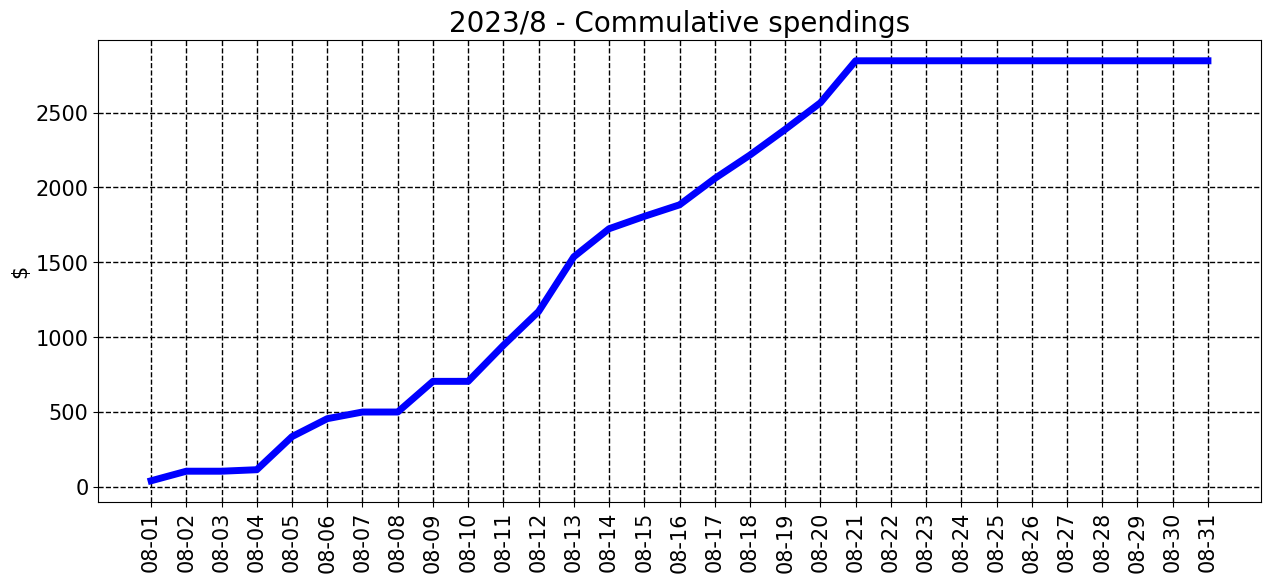
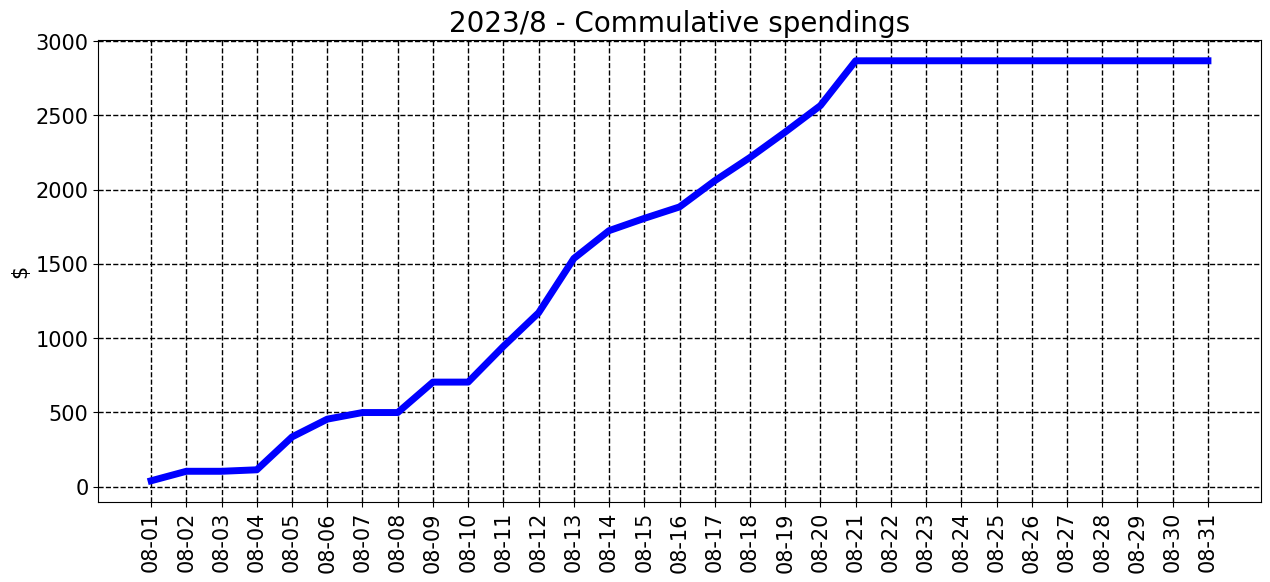
commit from python

diff --git a/README.md b/README.md
@@ -7,7 +7,7 @@ __________________________________
 <sub><sup>
 | Spent | Avg daily | End of month projection | Spent since 2023/7 |
 |---|---|---|---|
-| $2846.0  |  $135.5  | $4200.0  |  $3234.0  |
+| $2868.0  |  $136.6  | $4235.0  |  $3256.0  |
 </sub></sup>
 __________________________________
 ![graph_8_sum](graph_8_sum.png)
